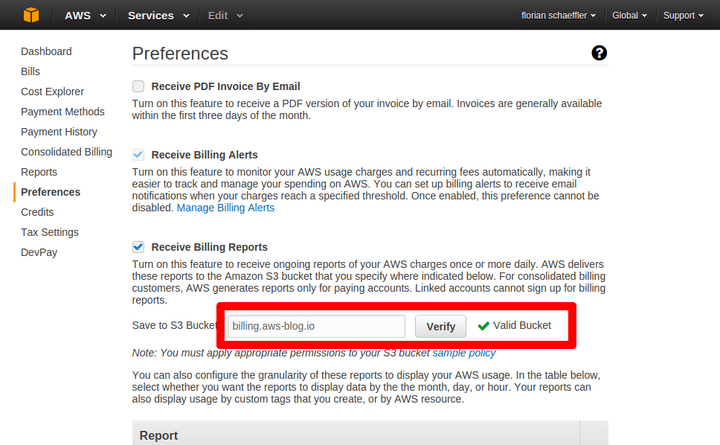
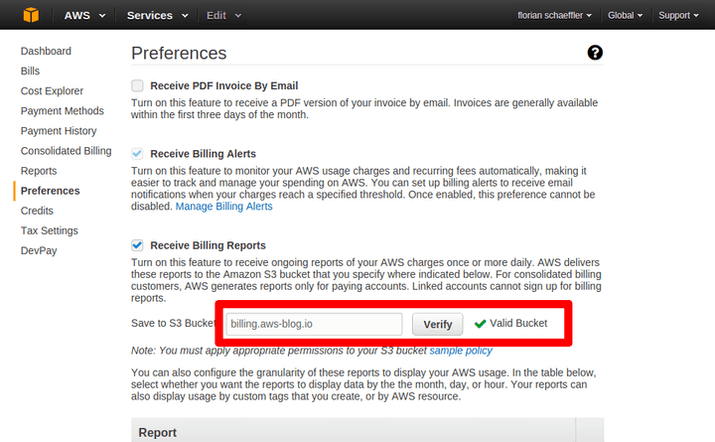
added explicit image sizes

diff --git a/_posts/2015-06-20-controlled-cost-growth.md b/_posts/2015-06-20-controlled-cost-growth.md
@@ -59,7 +59,7 @@ $ rm reporting.aws-blog.io.policy
 
 The next step is one of the few tasks that need to be done within the [Management Console](https://console.aws.amazon.com){:target="_blank"}. Login and navigate to **Billing & Cost Management**. The link to it is shown in a sub-menu, when you click on your name on the top right. Select **Preferences** on the left side. In the field **Save to S3 Bucket** enter the bucket-name **reporting.aws-blog.io** and press **Verify**. This will trigger an validation-check, where an AWS-service tries to write a file called **aws-programmatic-access-test-object** to the [S3](http://aws.amazon.com/s3/){:target="_blank"}-bucket. If the check had been successful, you get a result as shown in the screenshot below.
 
-![Verified S3-Bucket for Reporting](/images/cost-control-s3.png)
+<img src="/images/cost-control-s3.png" width="720" height="448" alt="Verified S3-Bucket for Reporting" />
 
 ## Adjust limits once per month
 

diff --git a/_posts/2015-06-07-cost-control.md b/_posts/2015-06-07-cost-control.md
@@ -10,7 +10,7 @@ The concept of running instances on [AWS](http://aws.amazon.com){:target="_blank
 
 The billing alerts is one of the few things that need to get enabled within the [Management Console](https://console.aws.amazon.com){:target="_blank"}. Navigate to **Billing & Cost Management**. The link to it is shown in a sub-menu, when you click on your name on the top right. Select **Preferences** on the left side. On the selected screen you need to enable **Receive Billing Alerts**. Your screen should now look like the following screenshot.
 
-![Recieve Billing Alerts](/images/cost-control.png)
+<img src="/images/cost-control.png" width="720" height="433" alt="Recieve Billing Alerts" />
 
 **NOTE:** This setting can't get disabled after being enabled once. However, this service is for free and any notfications can be disabled again.
 

diff --git a/_posts/2015-05-24-create-cloudfront-distribution.md b/_posts/2015-05-24-create-cloudfront-distribution.md
@@ -8,7 +8,7 @@ With [CloudFront](http://aws.amazon.com/cloudfront/){:target="_blank"}, Amazon c
 
 The servers, which hold a cached version of the static files are called Edge Locations. In the image below, each blue dot stands for at least one Edge Location. Some dots stand for up to 3 of them. More details about the AWS-Regions and Edge Locations can be found [here](http://aws.amazon.com/about-aws/global-infrastructure/){:target="_blank"}.
 
-![AWS Edge Locations](/images/aws-edge-locations.png){:class='centered'}
+<img class="centered" src="/images/aws-edge-locations.png" width="608" height="197" alt="AWS Edge Locations" />
 
 |---
 | Region | Country | City | ELs

diff --git a/_posts/2015-05-20-register-domain-route53.md b/_posts/2015-05-20-register-domain-route53.md
@@ -175,7 +175,7 @@ With the above code, a less risky way of domain-import is being done. If you don
 ### Alias Entries
 In order to explain the concept of alias-entries I took the following architecture.
 
-![Route 53 Concept](/images/route53-concept.png){:class='centered'}
+<img class="centered" src="/images/route53-concept.png" width="394" height="204" alt="Route 53 Concept" />
 
 The steps for creating the recordsets for the concept are
 
